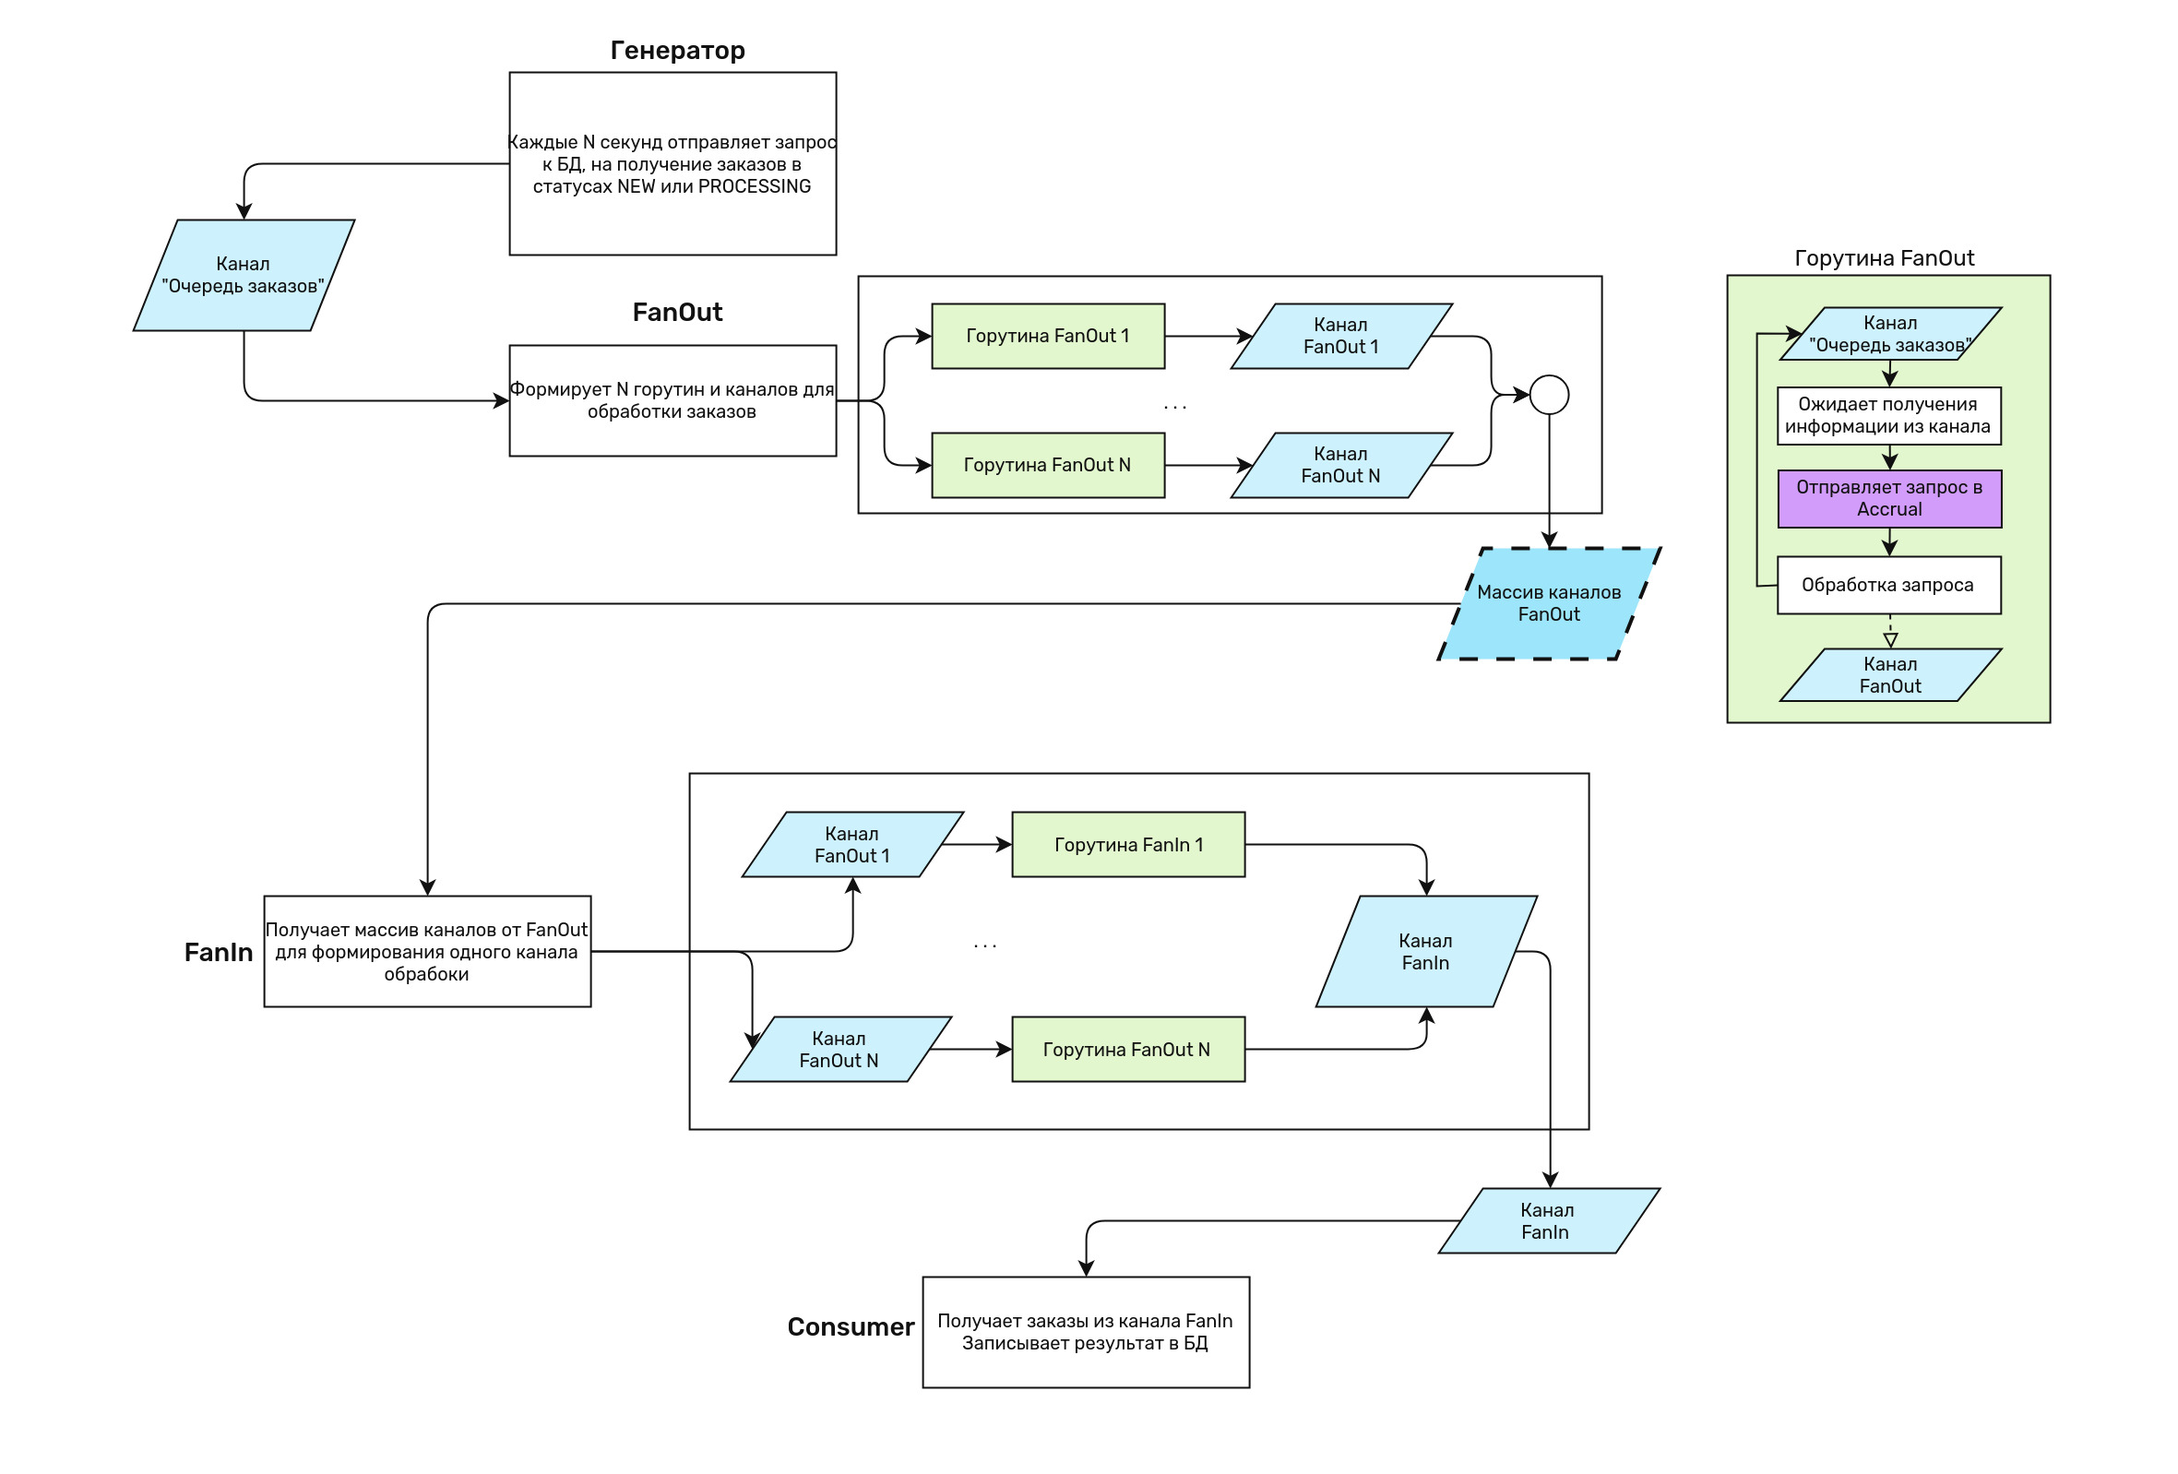
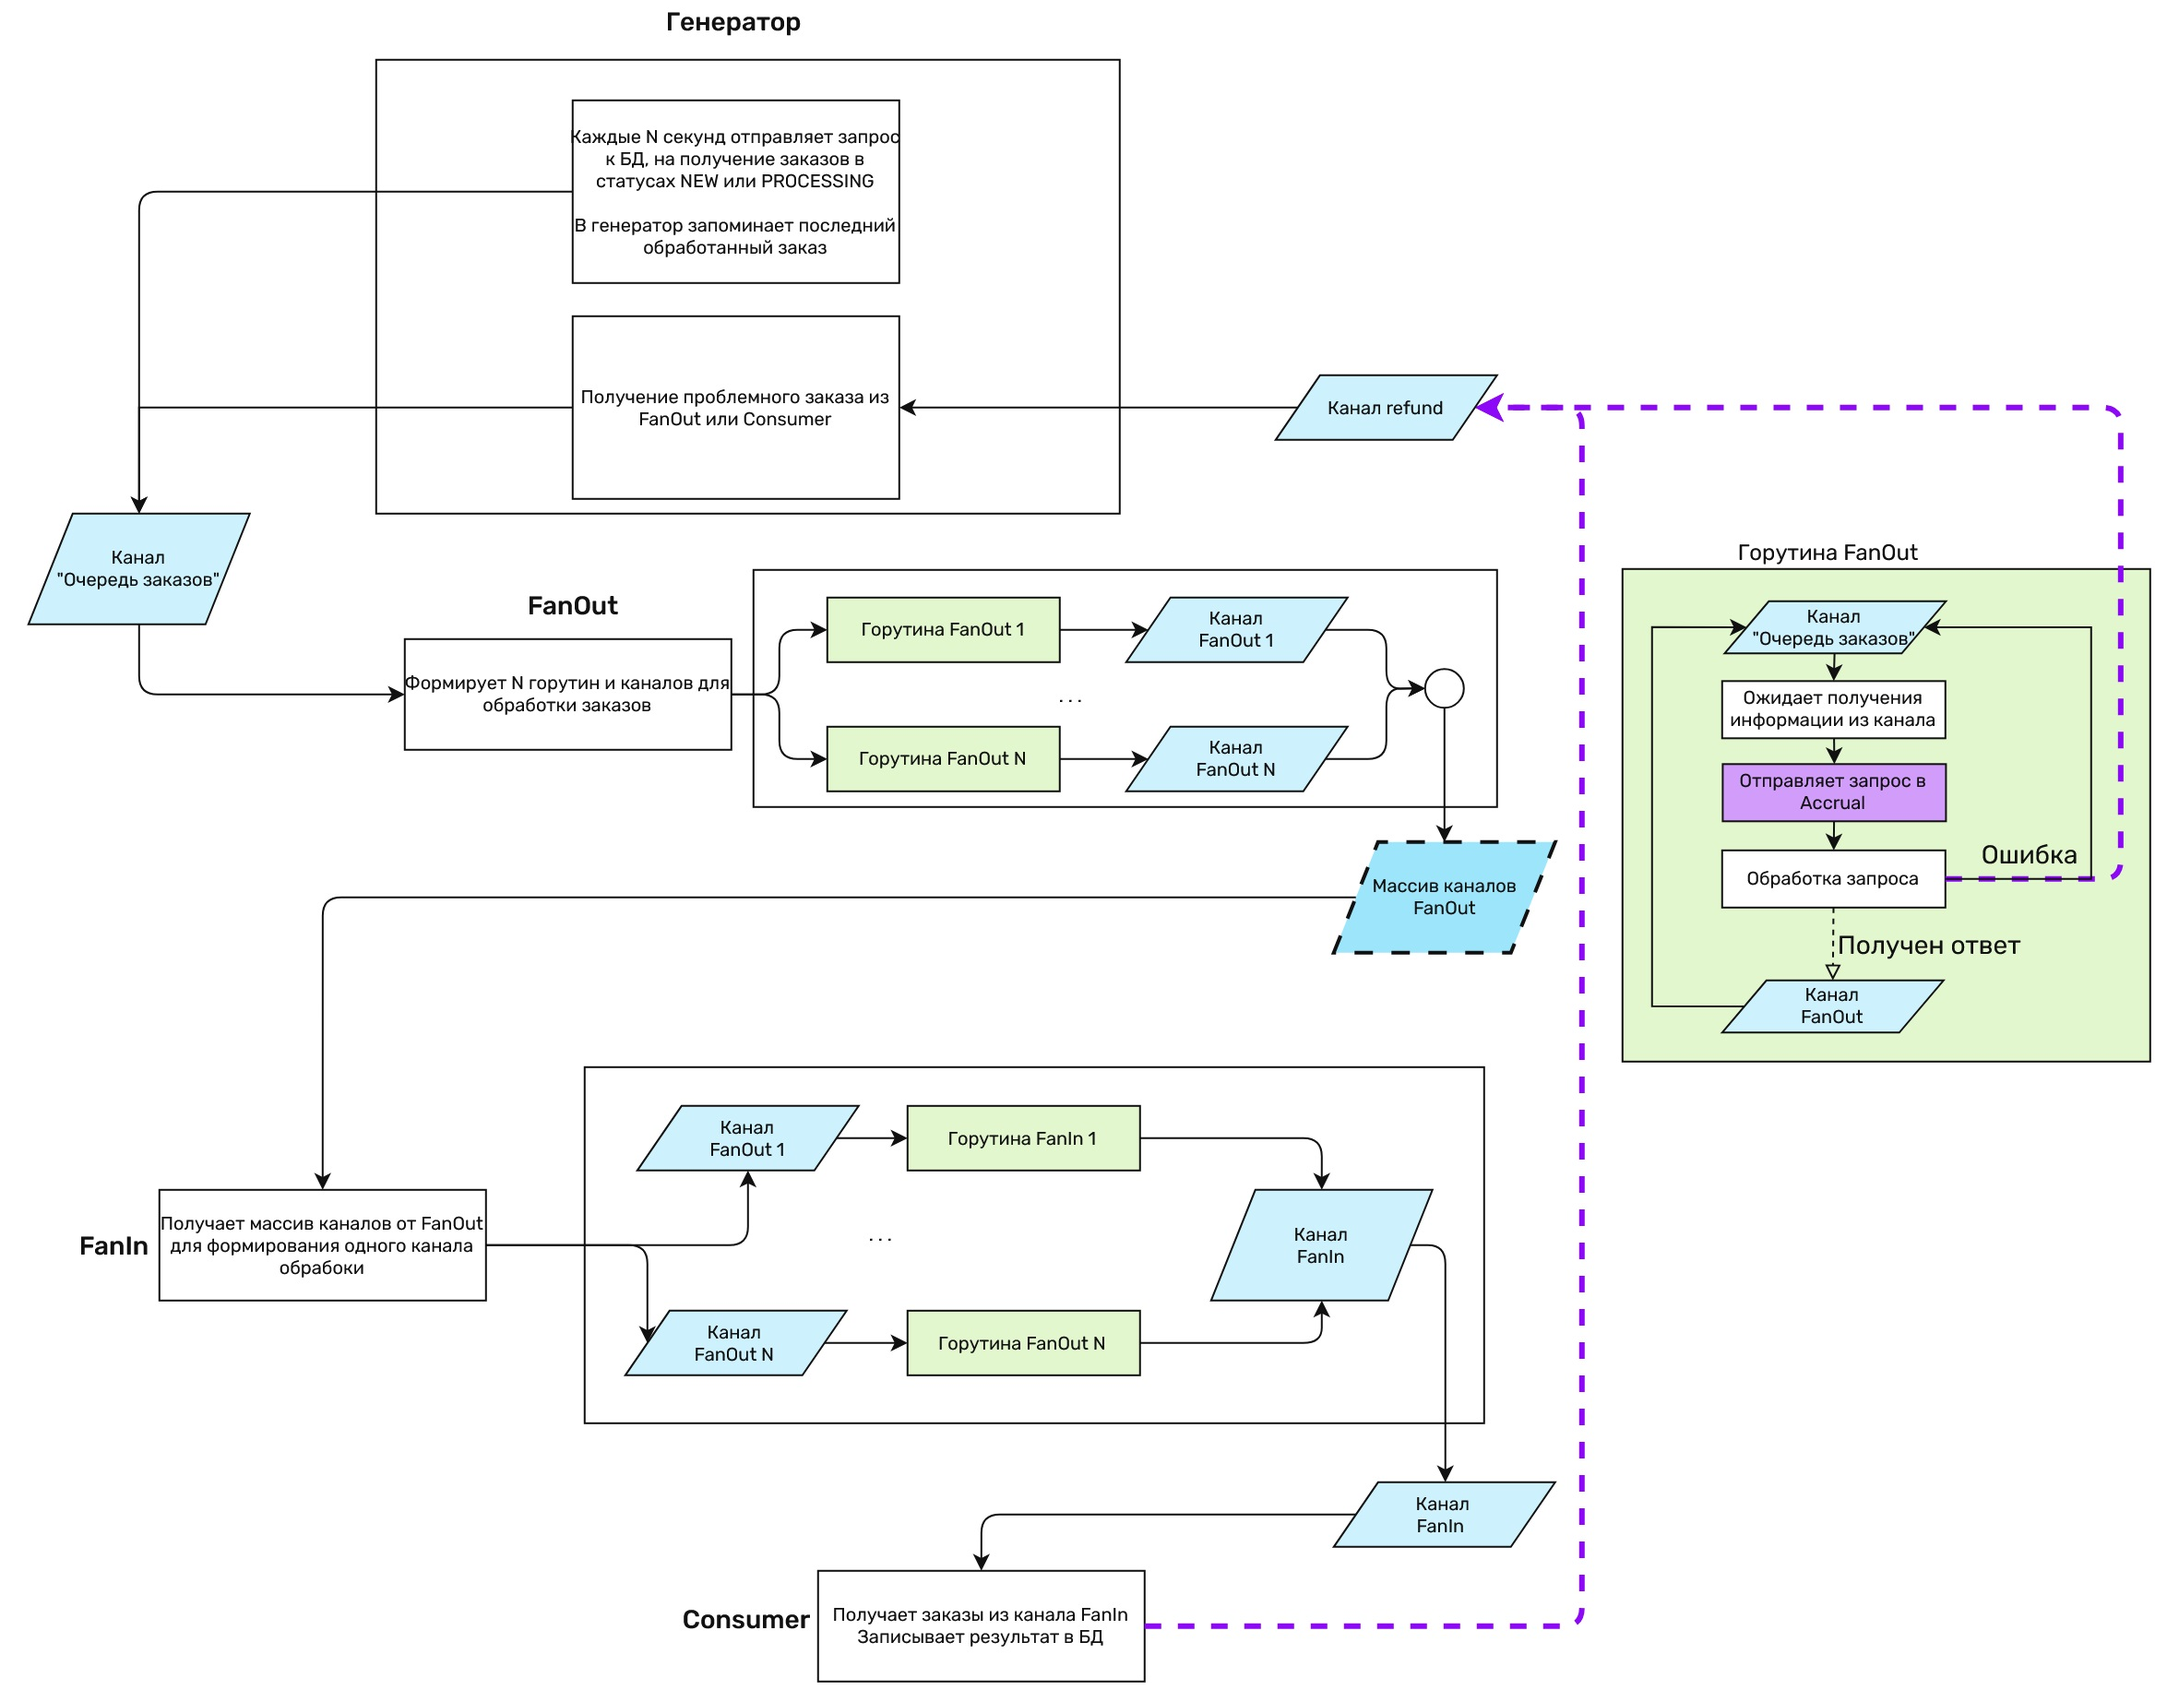
update doc

Changed region(s): [[0.0309, 0.0, 0.9894, 1.0], [0.0, 0.276, 0.1237, 0.368], [0.2474, 0.3373, 0.2783, 0.368]]

diff --git a/README.md b/README.md
@@ -13,14 +13,5 @@
  - GET /api/user/balance — получение текущего баланса счёта баллов лояльности пользователя;
  - POST /api/user/balance/withdraw — запрос на списание баллов с накопительного счёта в счёт оплаты нового заказа;
  - GET /api/user/withdrawals — получение информации о выводе средств с накопительного счёта пользователем.
-
- - Добавлены индексы для основных полей по которым происходит фильтрация элементов
-
-Реализованно но требует доработки
  - GET /api/orders/{number} — получение информации о расчёте начислений баллов лояльности.
- - - Доработаю: При получение ошибки по заказу, он будет обратно возвращаться в очередь
- - - Доработаю: В генератор будет запоминать номера заказов, которые уже были.
-
-
- - Нужно покрывать код тестами
- - Закрыть все TODO в комментариях
+ - Добавлены индексы для основных полей по которым происходит фильтрация элементов
